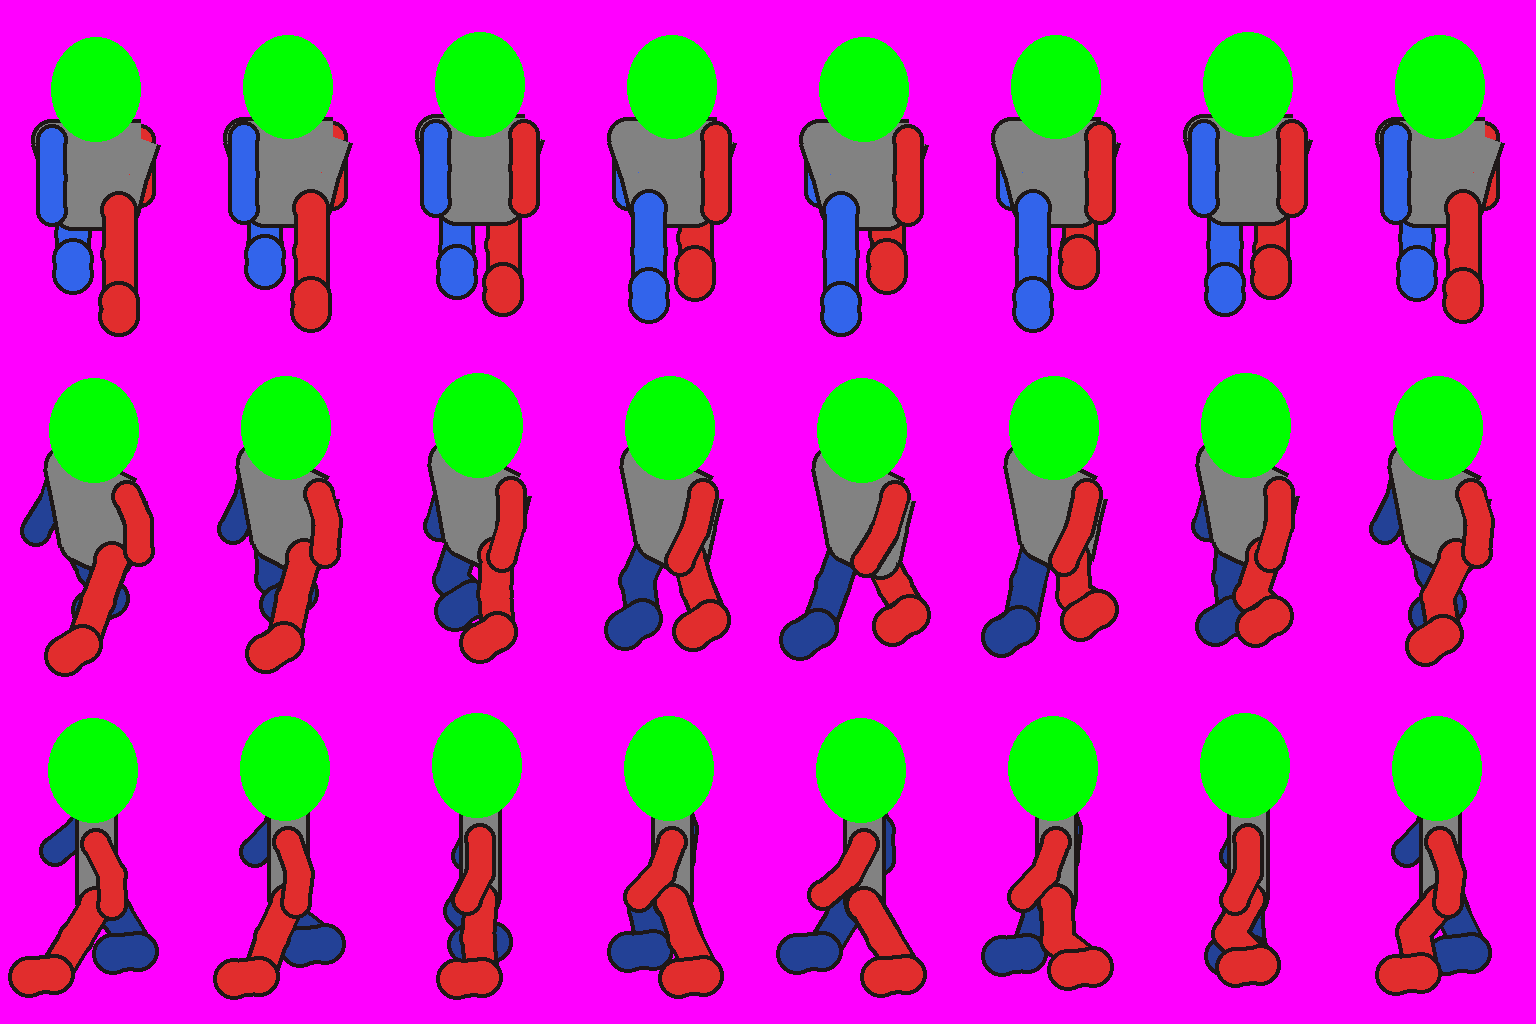
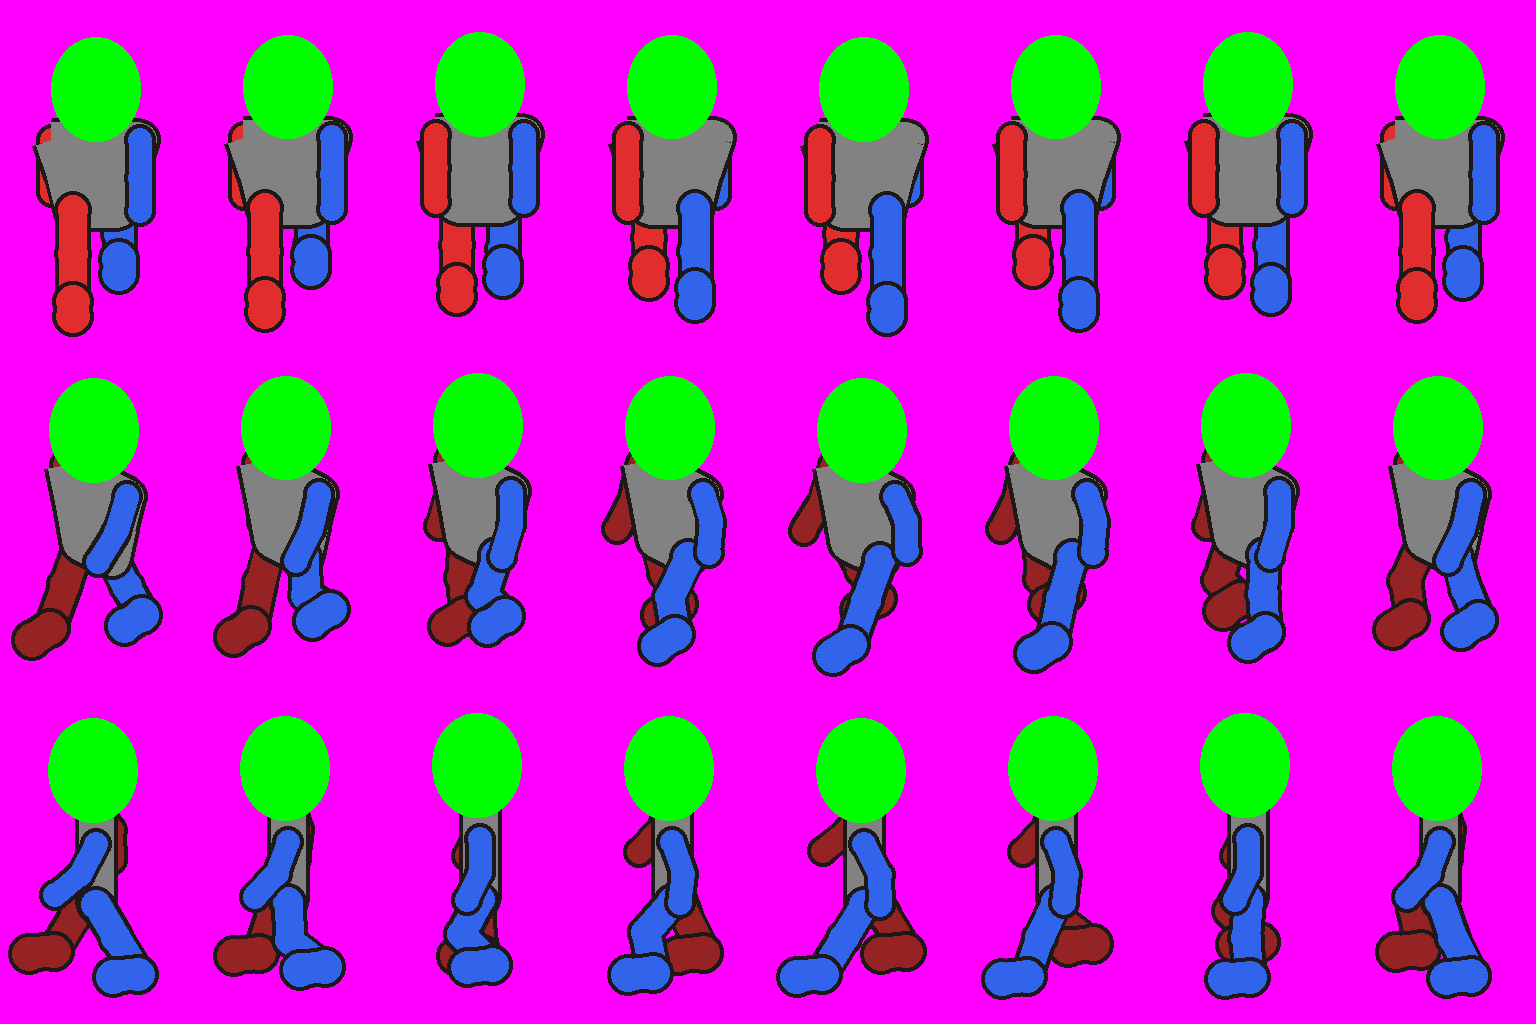
Posen-Vorlagen: links/rechts richtig, ein Blatt je Richtung (Teil U6)

diff --git a/tools/posen_vorlage.py b/tools/posen_vorlage.py
@@ -10,6 +10,7 @@ Drei Blätter je Geschlecht (alle 1536 x 1024, Hintergrund Pink), m = männlich,
   posen_<m|w>_gehen_1.png   3 Reihen x 8: Gehen von vorne, schräg von vorne, von der Seite
   posen_<m|w>_gehen_2.png   2 Reihen x 8: Gehen schräg von hinten, von hinten
   posen_<m|w>_stehen_sitzen.png  2 Reihen x 5: Stehen und Sitzen in den fünf Richtungen
+  posen_<m|w>_gehen_<richtung>.png  2 Reihen x 4: Gehen in einer Richtung, groß (seit 14.11.2026)
 
 Farben der Puppe: Kopf grün (wie das Kopf-Oval), Rumpf grau, rechter Arm und rechtes Bein rot,
 linker Arm und linkes Bein blau. Alle Figuren schauen nach LINKS (oder gerade zum Betrachter
@@ -129,6 +130,7 @@ def skelett(pose: str, bild_nr: int, geschlecht: str):
 def aufs_blatt(punkt, drehung, mitte_x, boden_y, mass):
 	"""Körper-Punkt auf das Blatt: Figur um die Hochachse drehen, dann von schräg oben ansehen."""
 	x, y, z = punkt
+	x = -x   # Blick auf die Figur: ihre rechte Seite liegt von vorne gesehen links im Bild (bis 14.11. vertauscht)
 	c, s = math.cos(drehung), math.sin(drehung)
 	wx = x * c + z * s
 	wz = -x * s + z * c          # wz > 0 heißt: näher am Betrachter
@@ -180,14 +182,14 @@ def figur(zeichnung, pose: str, bild_nr: int, richtung: str, mitte_x: float, bod
 	zeichnung.ellipse([kx - 46 * d, ky - 54 * d, kx + 46 * d, ky + 54 * d], fill=GRUEN)
 
 
-def blatt(reihen: list, spalten: int, mass: float, geschlecht: str) -> Image.Image:
+def blatt(reihen: list, spalten: int, mass: float, geschlecht: str, boden_anteil: float = 0.16) -> Image.Image:
 	"""reihen: je Reihe eine Liste von (pose, bild_nr, richtung)."""
 	bild = Image.new("RGB", (BREIT, HOCH), PINK)
 	zeichnung = ImageDraw.Draw(bild)
 	zelle_b, zelle_h = BREIT / spalten, HOCH / len(reihen)
 	for r, reihe in enumerate(reihen):
 		for s, (pose, bild_nr, richtung) in enumerate(reihe):
-			boden_y = r * zelle_h + zelle_h - 0.16 * zelle_h - (0.10 * zelle_h if pose == "sitzen" else 0)
+			boden_y = r * zelle_h + zelle_h - boden_anteil * zelle_h - (0.10 * zelle_h if pose == "sitzen" else 0)
 			# Sitzende, die nach links schauen, etwas nach rechts rücken (die Beine ragen nach links)
 			versatz = 0.08 * zelle_b if pose == "sitzen" and richtung in ("schraeg_vorne", "seite", "schraeg_hinten") else 0
 			figur(zeichnung, pose, bild_nr, richtung, s * zelle_b + zelle_b / 2 + versatz, boden_y, mass, geschlecht)
@@ -206,6 +208,11 @@ if __name__ == "__main__":
 			f"posen_{g}_gehen_2.png": blatt([gehen("schraeg_hinten"), gehen("hinten")], 8, 118, g),
 			f"posen_{g}_stehen_sitzen.png": blatt([[("stehen", 0, r) for r in RICHTUNGEN], [("sitzen", 0, r) for r in RICHTUNGEN]], 5, 150, g),
 		}
+		# Seit 14.11.: ein Blatt je Richtung, 2 Reihen x 4 (Bild 1-4 oben, 5-8 unten), große Puppen,
+		# damit ChatGPT die Beinstellung genauer trifft.
+		for r in RICHTUNGEN:
+			bilder = gehen(r)
+			blaetter[f"posen_{g}_gehen_{r}.png"] = blatt([bilder[:4], bilder[4:]], 4, 125, g, 0.12)
 		for name, bild in blaetter.items():
 			bild.save(f"{ordner}/{name}")
 			print("gespeichert:", f"{ordner}/{name}")
